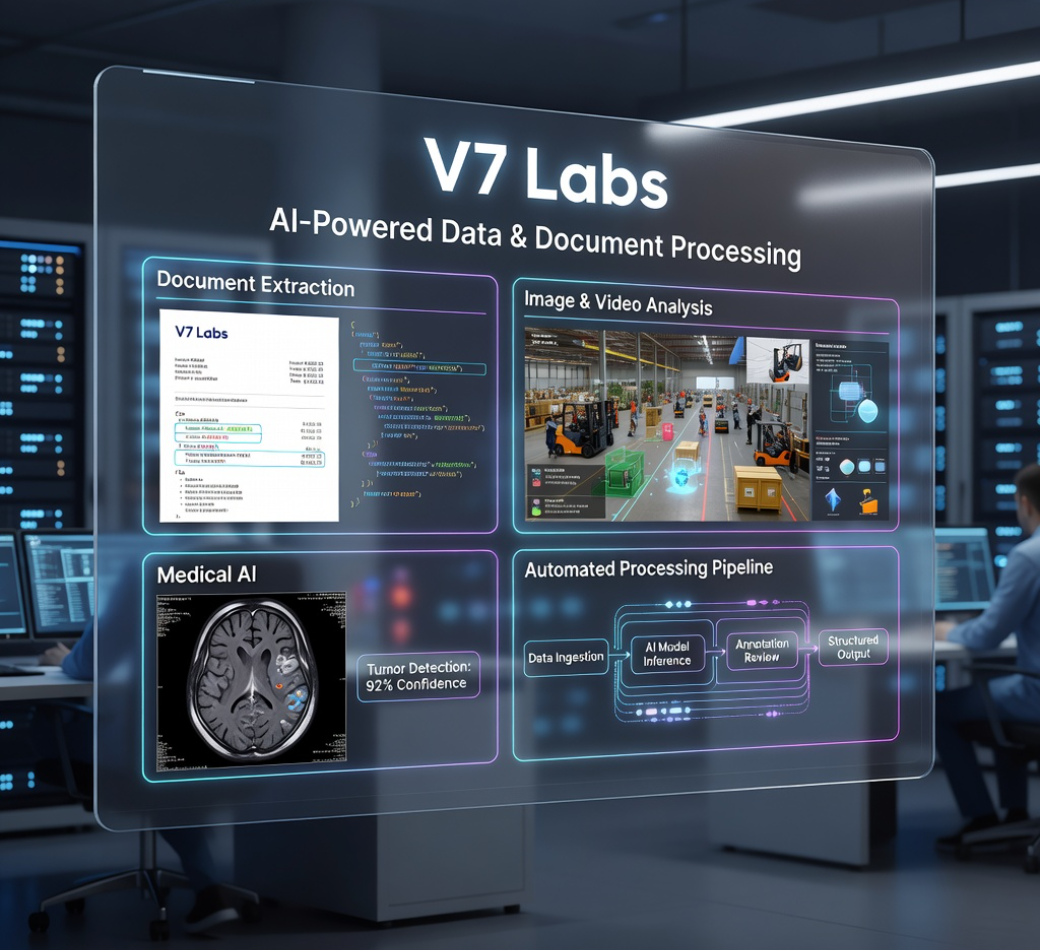
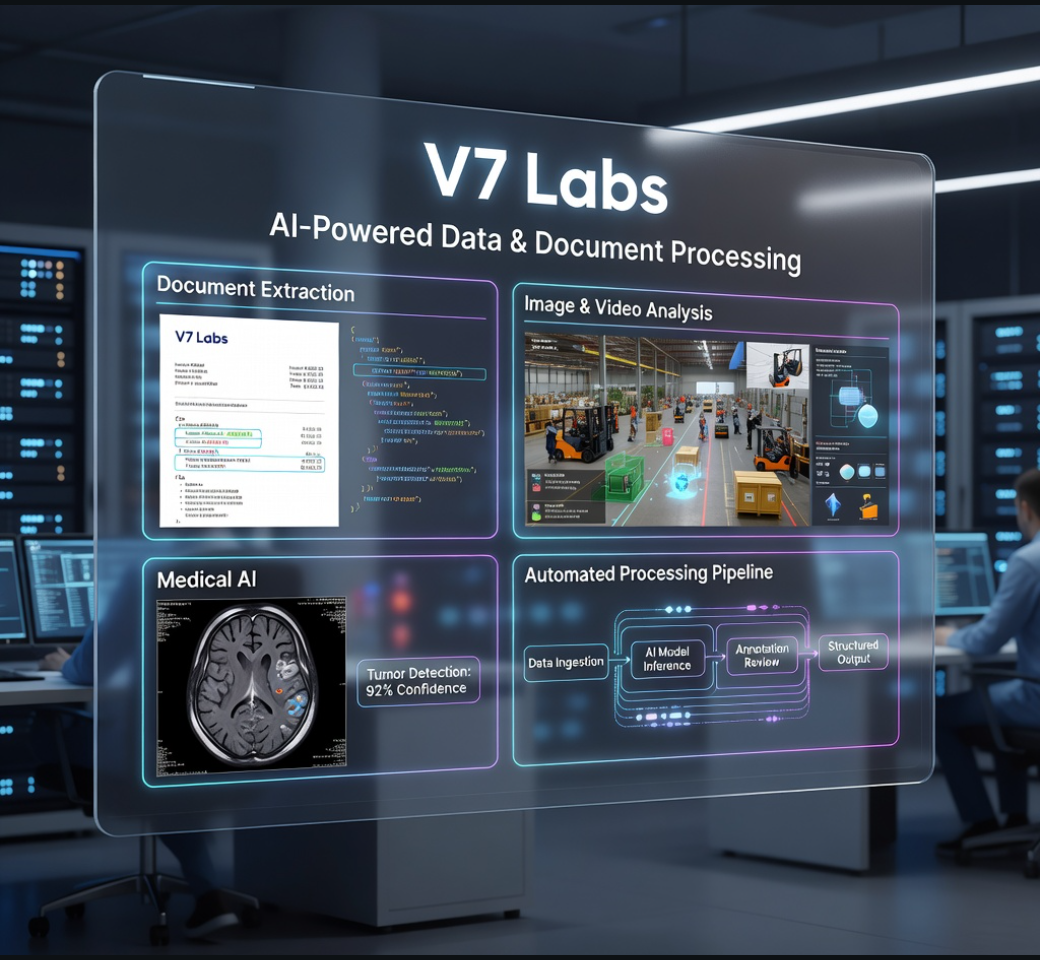
Normalize all cover images to 1040x960 for uniform gallery display.
Pad covers to a shared canvas and match the gallery frame aspect ratio so every project image renders at the same size without cropping.

diff --git a/docs/css/style.css b/docs/css/style.css
@@ -6,7 +6,6 @@
   --muted: #9fa5aa;
   --accent: #ff8a00;
   --accent-hover: #ff9f2f;
-  --carousel-height: 400px;
 }
 
 * { box-sizing: border-box; }
@@ -117,10 +116,10 @@ header p {
   margin-bottom: 14px;
 }
 
-/* Same fixed frame for every project — full image scaled inside, no crop */
+/* Uniform frame — matches normalized 1040×960 cover canvas */
 .carousel-viewport {
   width: 100%;
-  height: var(--carousel-height);
+  aspect-ratio: 1040 / 960;
   overflow: hidden;
   border-radius: 10px;
   border: 1px solid #30363b;
@@ -139,7 +138,14 @@ header p {
   overflow: hidden;
 }
 
-.carousel-slide img {
+.carousel-slide.is-cover img {
+  width: 100%;
+  height: 100%;
+  object-fit: fill;
+  display: block;
+}
+
+.carousel-slide.is-screenshot img {
   width: 100%;
   height: 100%;
   object-fit: contain;
@@ -210,9 +216,5 @@ footer {
 @media (max-width: 768px) {
   .grid {
     grid-template-columns: 1fr;
-  }
-
-  :root {
-    --carousel-height: 320px;
   }
 }

diff --git a/docs/js/carousel.js b/docs/js/carousel.js
@@ -18,7 +18,7 @@ function createCarousel(project) {
       <div class="carousel-viewport">
         <div class="carousel-track">
           ${images.map((src, index) => `
-            <div class="carousel-slide">
+            <div class="carousel-slide${index === 0 ? ' is-cover' : ' is-screenshot'}">
               <img src="${src}" alt="${project.name} image ${index + 1}" loading="lazy" />
             </div>
           `).join('')}
